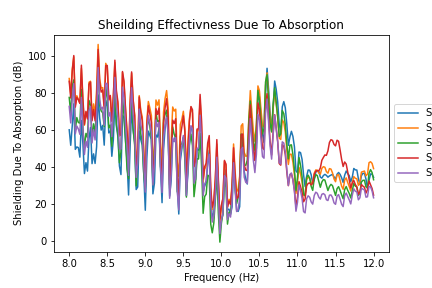
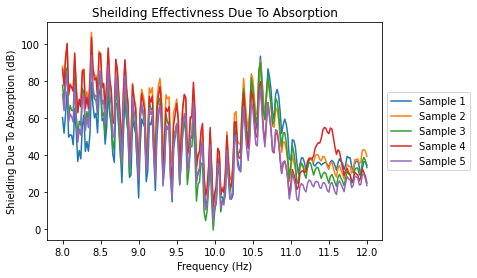
Add files via upload

Changed region(s): [[0.0, 0.0288, 1.0, 0.9784]]

diff --git a/8%CF/90_Degree_100%_8%CF/main.py b/8%CF/90_Degree_100%_8%CF/main.py
@@ -122,7 +122,7 @@ for i in range(N):
     if i == 16:
         plt.plot(x, mag, label = 'Sample4')
         plt.legend(loc='center left', bbox_to_anchor=(1, 0.5))
-    plt.savefig('S11.png')
+    plt.savefig('S11.png', bbox_inches='tight')
         
     plt.title(name_dict[i])
     fig = plt.figure(11)
@@ -152,7 +152,7 @@ for i in range(N):
         plt.plot(x, SER, label = 'Sample5')
 #        plt.plot(x, SER_Tunnel, label = 'tunnel 4')
         plt.legend(loc='center left', bbox_to_anchor=(1, 0.5))
-        plt.savefig('SER.png')
+    plt.savefig('SER.png', bbox_inches='tight')
     
 for i in range(N):
     if i == 0:
@@ -212,7 +212,7 @@ for i in range(N):
     if i == 17:
         plt.plot(x, mag, label = 'Sample5')
         plt.legend(loc='center left', bbox_to_anchor=(1, 0.5))
-        plt.savefig('S21.png')
+    plt.savefig('S21.png', bbox_inches='tight')
         
 S2 = []    
 for i in range(N):
@@ -277,7 +277,7 @@ for i in range(N):
     if i == 18:
         plt.plot(x, mag, label = 'Sample5')
         plt.legend(loc='center left', bbox_to_anchor=(1, 0.5))
-        plt.savefig('S12.png')
+    plt.savefig('S12.png',  bbox_inches='tight')
     plt.title(name_dict[i])
     fig = plt.figure(9)
     plt.title('Total SE')
@@ -302,11 +302,11 @@ for i in range(N):
     if i == 14:
         plt.plot(x, sample, label = 'Sample4')
         plt.legend(loc='center left', bbox_to_anchor=(1, 0.5))
-    if i == 18:
+#    if i == 18:
 #        plt.plot(x, Total_SE, label = 'Sample4')
-        plt.plot(x, sample, label = 'Sample 5')
-        plt.legend(loc='center left', bbox_to_anchor=(1, 0.5))
-        plt.savefig('Total_SE.png')
+#        plt.plot(x, sample, label = 'Sample 5')
+#        plt.legend(loc='center left', bbox_to_anchor=(1, 0.5))
+    plt.savefig('Total_SE.png',  bbox_inches='tight')
 
 for i in range(N):
     if i == 0:
@@ -367,7 +367,7 @@ for i in range(N):
     if i == 19:
         plt.plot(x, mag, label = 'Sample 5')
         plt.legend(loc='center left', bbox_to_anchor=(1, 0.5))
-        plt.savefig('S22.png')
+    plt.savefig('S22.png', bbox_inches='tight')
 #plt.show()
 
 
@@ -457,7 +457,7 @@ plt.plot(x, sample5, label = 'Sample 5')
 plt.legend(loc='center left', bbox_to_anchor=(1, 0.5))
 #print(S1, 'S11')
 #print(S2, 'S22')
-plt.savefig('SEA.png')
+plt.savefig('SEA.png', bbox_inches='tight')
 
 
 
